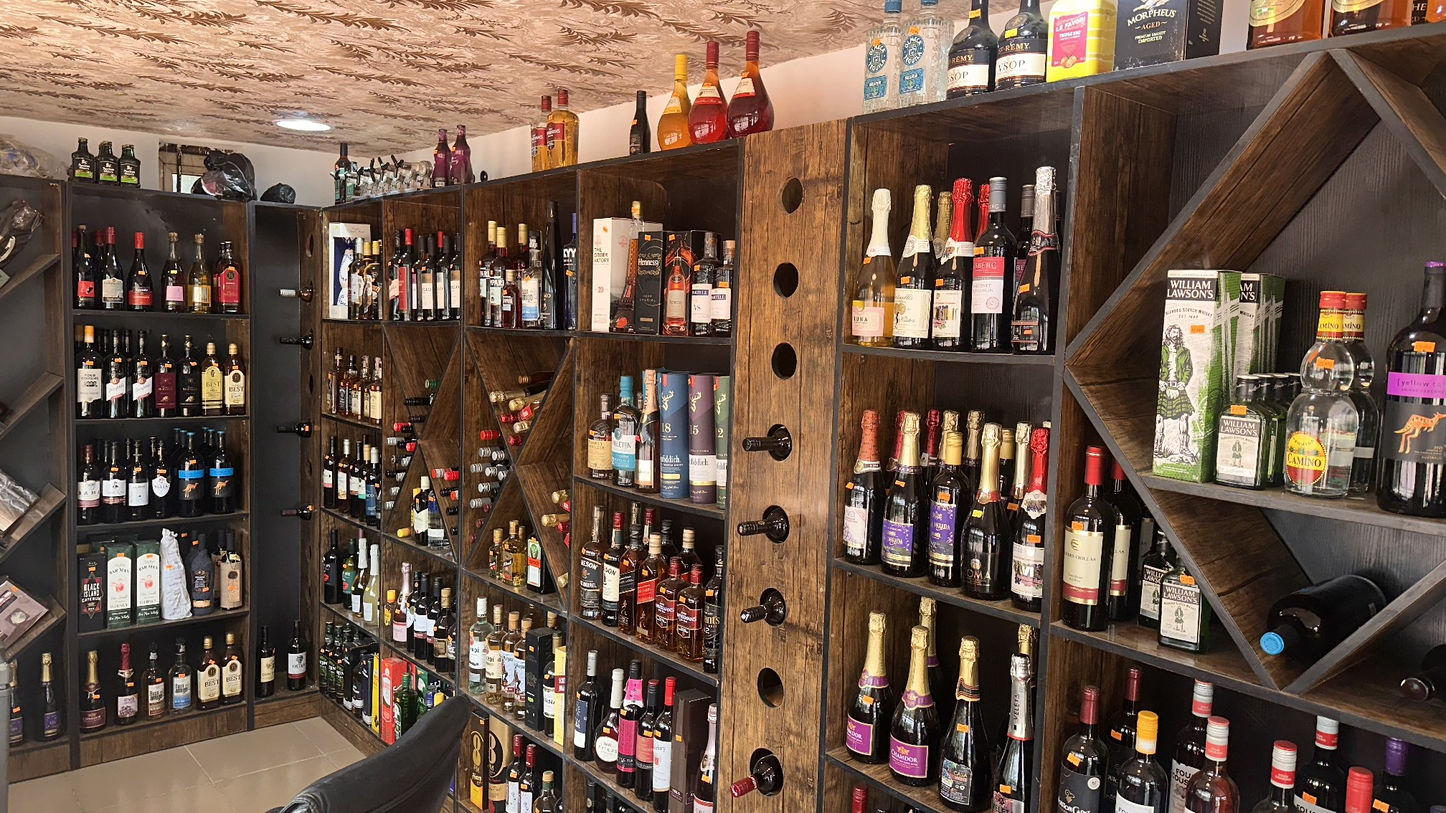
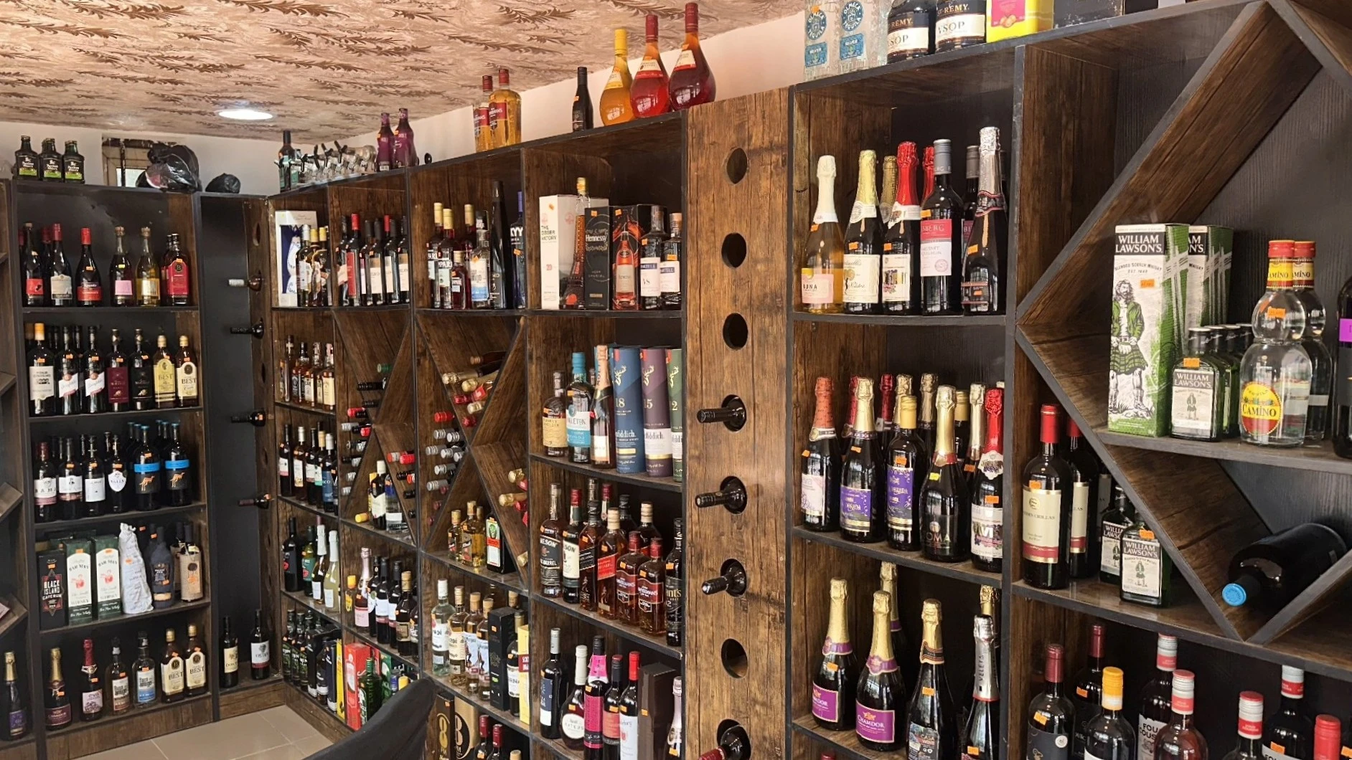
optimize website images

diff --git a/style.css b/style.css
@@ -60,7 +60,7 @@ body {
 
 .hero {
     width: 100%;
-    background-image: url(img/IMG0439_edited_1787660664211.jpg);
+    background-image: url(img/IMG0439_edited_1787660664211.webp);
     height: 1070px;
     background-size: 100%;
     /* border-radius: 0px 0px 60px 60px; */
@@ -362,7 +362,7 @@ body {
 }
 
 .corner .spot.cafe {
-    background-image: url(./img/IMG-20260813-WA0057.jpg);
+    background-image: url(./img/IMG-20260813-WA0057.webp);
     width: calc(50% - 15px);
     background-size: cover;
     background-position: center -50px;
@@ -370,21 +370,21 @@ body {
 }
 
 .corner .spot.wine {
-    background-image: url(./img/IMG-20260813-WA0054.jpg);
+    background-image: url(./img/IMG-20260813-WA0054.webp);
     width: calc(50% - 15px);
     background-position: center;
     background-size: cover;
 }
 
 .corner .spot.home {
-    background-image: url(./img/toa-heftiba-TWOnvtstmeU-unsplash.jpg);
+    background-image: url(./img/toa-heftiba-TWOnvtstmeU-unsplash.webp);
     width: calc(33.33% - 20px);
     background-size: 100%;
     background-position: center -50px;
 }
 
 .corner .spot.scents {
-    background-image: url(./img/IMG0411_edited_1787660665268.jpg);
+    background-image: url(./img/IMG0411_edited_1787660665268.webp);
     width: calc(33.33% - 20px);
     background-size: cover;
     background-position: center;
@@ -535,12 +535,12 @@ body {
     border-radius: 40px;
     border: none;
     font-weight: 500;
-    transition: 400ms;
     cursor: pointer;
 }
 
 .about-us button:hover {
     background-color: #b48b43;
+    transition: 400ms ease-in-out;
 }
 
 .about-us button:active {
@@ -556,7 +556,7 @@ body {
 .about-img .imgone {
     width: 100%;
     height: 570px;
-    background-image: url(./img/roman-bozhko-OXXsAafHDeo-unsplash.jpg);
+    background-image: url(./img/roman-bozhko-OXXsAafHDeo-unsplash.webp);
     background-size: cover;
     border-radius: 50px;
     background-repeat: no-repeat;
@@ -686,7 +686,7 @@ body {
 
 .cafe-section .cafe-menu .menu {
     background-color: var(--bg-color);
-    transition: 400ms;
+    /* transition: 400ms; */
     height: calc(700px - 265px - 30px);
     width: calc(32% - 30px);
     background-size: cover;
@@ -870,21 +870,26 @@ body {
 }
 .cafe-section .meals .meal.one {
     background-image: url(./img/cappuccino.webp);
+    background-position: center -120px;
 }
 .cafe-section .meals .meal.two {
-    background-image: url(./img/lemon-margarita.jpg);
+    background-image: url(./img/lemon-margarita.webp);
+    background-position: center -110px;
 }
 .cafe-section .meals .meal.three {
-    background-image: url(./img/pepper-turkey.jpeg);
+    background-image: url(./img/pepper-turkey.webp);
 }
 .cafe-section .meals .meal.four {
-    background-image: url(./img/tropical-smoothie.jpg);
+    background-image: url(./img/tropical-smoothie.webp);
+    background-position: 0px -50px;
 }
 .cafe-section .meals .meal.five {
-    background-image: url(./img/virgin-mojito.jpg);  
+    background-image: url(./img/virgin-mojito.webp);  
+    background-position: 0px 0px;
 }
 .cafe-section .meals .meal.six {
-    background-image: url(./img/omelette-sandwich.jpg);  
+    background-image: url(./img/omelette-sandwich.webp);  
+    background-position: 0px -120px;
 }
 .cafe-section .meals .meal .price {
     position: absolute;
@@ -970,35 +975,35 @@ body {
 }
 
 .gallery .image-grid .top .img.one {
-    background-image: url(./img/IMG-20260813-WA0042.jpg);
+    background-image: url(./img/IMG-20260813-WA0042.webp);
 }
 
 .gallery .image-grid .top .img.two {
-    background-image: url(./img/IMG-20260813-WA0045.jpg);
+    background-image: url(./img/IMG0420_edited_1787660854159.webp);
     height: 267px;
 }
 
 .gallery .image-grid .top .img.three {
-    background-image: url(./img/IMG-20260813-WA0047.jpg);
+    background-image: url(./img/IMG0439_edited_1787660664211.webp);
     height: 267px;
 }
 
 .gallery .image-grid .top .img.four {
-    background-image: url(./img/IMG-20260813-WA0050.jpg);
+    background-image: url(./img/IMG_0396.webp);
 }
 
 .gallery .image-grid .img.five {
-    background-image: url(./img/IMG-20260813-WA0038.jpg);
+    background-image: url(./img/IMG0426_edited_1787660855257.webp);
     height: 300px;
 }
 
 .gallery .image-grid .img.six {
-    background-image: url(./img/IMG-20260813-WA0044.jpg);
+    background-image: url(/img/IMG0411_edited_1787660665268.webp);
     height: 300px;
 }
 
 .gallery .image-grid .img.seven {
-    background-image: url(./img/IMG-20260813-WA0054.jpg);
+    background-image: url(./img/IMG-20260813-WA0054.webp);
     height: 300px;
 }
 
@@ -1542,7 +1547,7 @@ body {
     top: 0;
     width: 100%;
     height: 100%;
-    background-image: url(./img/IMG-20260813-WA0039.jpg);
+    background-image: url(./img/IMG-20260813-WA0039.webp);
     background-size: cover;
     background-position: center;
     opacity: 0.8;

diff --git a/media-queries/style-query.css b/media-queries/style-query.css
@@ -389,7 +389,7 @@
         top: 0px;
     }
     .corner .spot.cafe {
-        background-image: url(../img/IMG-20260813-WA0057.jpg);
+        background-image: url(../img/IMG-20260813-WA0057.webp);
         width: 100%;
         background-size: cover;
         background-position: center;
@@ -398,7 +398,7 @@
         transition: 400ms !important;
     }
     .corner .spot.wine {
-        background-image: url(../img/IMG-20260813-WA0054.jpg);
+        background-image: url(../img/IMG-20260813-WA0054.webp);
         width: 100%;
         background-size: cover;
         background-position: center;
@@ -407,7 +407,7 @@
         transition: 400ms !important;
     }
     .corner .spot.home {
-        background-image: url(../img/toa-heftiba-TWOnvtstmeU-unsplash.jpg);
+        background-image: url(../img/toa-heftiba-TWOnvtstmeU-unsplash.webp);
         width: 100%;
         background-size: cover;
         background-position: center;
@@ -416,7 +416,7 @@
         transition: 400ms !important;
     }
     .corner .spot.scents {
-        background-image: url(../img/IMG-20260813-WA0043.jpg);
+        background-image: url(../img/IMG-20260813-WA0043.webp);
         width: 100%;
         background-size: cover;
         background-position: center;
@@ -425,7 +425,7 @@
         transition: 400ms !important;
     }
     .corner .spot.makeup {
-        background-image: url(../img/toa-heftiba-TWOnvtstmeU-unsplash.jpg);
+        background-image: url(../img/toa-heftiba-TWOnvtstmeU-unsplash.webp);
         width: 100%;
         background-size: cover;
         background-position: center;
@@ -511,7 +511,7 @@
 .about-img .imgone {
     width: 100%;
     height: 280px;
-    background-image: url(../img/roman-bozhko-OXXsAafHDeo-unsplash.jpg);
+    background-image: url(../img/roman-bozhko-OXXsAafHDeo-unsplash.webp);
     background-size: cover;
     border-radius: 40px;
     background-repeat: no-repeat;
@@ -709,22 +709,22 @@
     background-image: url(../img/cappuccino.webp);
 }
 .cafe-section .meals .meal.two {
-    background-image: url(../img/lemon-margarita.jpg);
+    background-image: url(../img/lemon-margarita.webp);
     background-position: center -80px;
 }
 .cafe-section .meals .meal.three {
-    background-image: url(../img/pepper-turkey.jpeg);
+    background-image: url(../img/pepper-turkey.webp);
 }
 .cafe-section .meals .meal.four {
-    background-image: url(../img/tropical-smoothie.jpg);
+    background-image: url(../img/tropical-smoothie.webp);
     background-position: center -50px;
 }
 .cafe-section .meals .meal.five {
-    background-image: url(../img/virgin-mojito.jpg);  
+    background-image: url(../img/virgin-mojito.webp);  
 }
 .cafe-section .meals .meal.six {
     background-position: center -90px;
-    background-image: url(../img/omelette-sandwich.jpg);  
+    background-image: url(../img/omelette-sandwich.webp);  
 }
 .cafe-section .meals .meal .price {
     position: absolute;
@@ -807,35 +807,41 @@
     background-position: center;
 }
 .gallery .image-grid .top .img.one {
-    background-image: url(../img/IMG-20260813-WA0042.jpg);
+    background-image: url(../img/IMG-20260813-WA0042.webp);
 }
+
 .gallery .image-grid .top .img.two {
-    background-image: url(../img/IMG-20260813-WA0045.jpg);
+    background-image: url(../img/IMG0420_edited_1787660854159.webp);
     height: 150px;
     width: calc(50% - 12px);
 }
+
 .gallery .image-grid .top .img.three {
-    background-image: url(../img/IMG-20260813-WA0047.jpg);
+    background-image: url(../img/IMG0439_edited_1787660664211.webp);
     height: 150px;
     width: calc(50% - 12px);
 }
+
 .gallery .image-grid .top .img.four {
-    background-image: url(../img/IMG-20260813-WA0050.jpg);
+    background-image: url(../img/IMG_0396.webp);
 }
+
 .gallery .image-grid .img.five {
-    background-image: url(../img/IMG-20260813-WA0038.jpg);
+    background-image: url(../img/IMG0426_edited_1787660855257.webp);
     height: 300px;
 }
+
 .gallery .image-grid .img.six {
-    background-image: url(../img/IMG-20260813-WA0044.jpg);
+    background-image: url(../img/IMG0411_edited_1787660665268.webp);
     height: 200px;
 }
+
 .gallery .image-grid .img.seven {
-    background-image: url(../img/IMG-20260813-WA0054.jpg);
+    background-image: url(../img/IMG-20260813-WA0054.webp);
     height: 300px;
 }
 .our-spaces {
-    background-image: url(../img/IMG-20260813-WA0040.jpg);
+    background-image: url(../img/IMG-20260813-WA0040.webp);
     padding: 100px 20px;
     background-size: cover;
     background-position: center;

diff --git a/index.html b/index.html
@@ -146,7 +146,7 @@
                         </div>
                         <div class="spot scents">
                             <div class="info">
-                                <h3>Perfumes Klub</h3>
+                                <h3>Perfume Klub</h3>
                                 <p>Scents that make you feel good, smell better and last forever.</p>
                             </div>
                         </div>
@@ -305,22 +305,22 @@
                 <div class="group-indicator"><!-- JS builds this --></div>
                 <div class="flow-cards">
                     <div class="group">
-                        <div class="card" data-bg="img/IMG-20260813-WA0057.jpg">
+                        <div class="card" data-bg="img/IMG-20260813-WA0057.webp">
                             <h3>Coffee & Co.</h3>
                             <h4>Fresh coffee, delicious bites and moments worth sharing.</h4>
                             <p>Coffee, milkshakes, sandwiches, small chops and fresh bites.</p>
                         </div>
-                        <div class="card" data-bg="img/IMG-20260813-WA0054.jpg">
+                        <div class="card" data-bg="img/IMG-20260813-WA0054.webp">
                             <h3>Glasses & Bottles</h3>
                             <h4>Curated bottles for every mood and moment.</h4>
                             <p>A relaxed cellar to sip, browse and unwind.</p>
                         </div>
-                        <div class="card" data-bg="img/toa-heftiba-TWOnvtstmeU-unsplash.jpg">
+                        <div class="card" data-bg="img/toa-heftiba-TWOnvtstmeU-unsplash.webp">
                             <h3>@Home</h3>
                             <h4>Pieces that turn a house into a feeling.</h4>
                             <p>Thoughtfully sourced decor for every corner.</p>
                         </div>
-                        <div class="card" data-bg="img/IMG0411_edited_1787660665268.jpg">
+                        <div class="card" data-bg="img/IMG0411_edited_1787660665268.webp">
                             <h3>Perfume Klub</h3>
                             <h4>Pieces that turn a house into a feeling.</h4>
                             <p>Thoughtfully sourced decor for every corner.</p>

diff --git a/js/gsap.js b/js/gsap.js
@@ -61,7 +61,7 @@ gsap.from(
   },
 );
 mm.add("(min-width: 320px) and (max-width: 700px)", () => {
-  gsap.from(".our-corner .corner", {
+  gsap.from(".our-corner .corner-wrapper", {
     scrollTrigger: {
       trigger: ".our-corner .corner-wrapper",
       start: "top 85%",
@@ -69,7 +69,6 @@ mm.add("(min-width: 320px) and (max-width: 700px)", () => {
     },
     y: 20,
     opacity: 0,
-    stagger: 0.12,
     duration: 0.5,
     ease: "power2.out",
   });
@@ -88,7 +87,7 @@ mm.add("(min-width: 800px) and (max-width: 1920px)", () => {
     ease: "power2.out",
   });
 });
-gsap.from(".about-us .left span, .about-us .left h3, .about-us .left p", {
+gsap.from(".about-us .left span, .about-us .left h3, .about-us .left p, .about-us .left button", {
   scrollTrigger: {
     trigger: ".about-us .left", // element to watch
     start: "top 80%", // when element hits 80% of viewport
